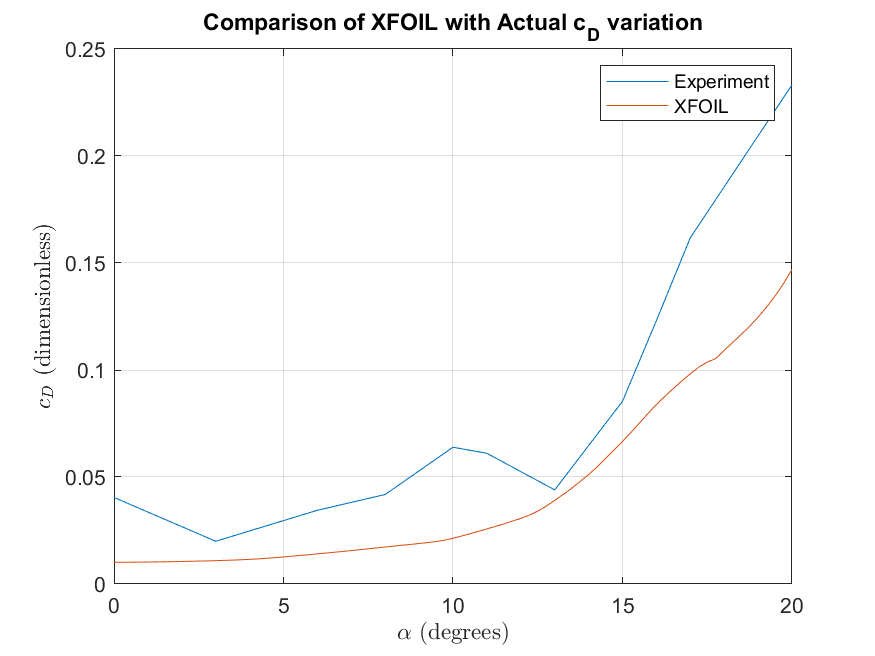
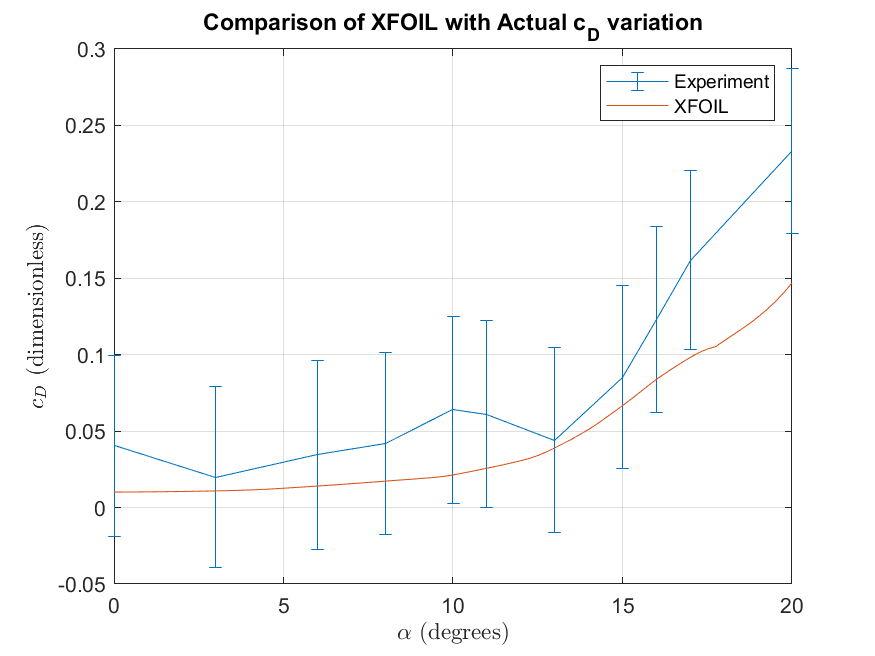
Error analysis for manometer, manometer wake velocity, drag
Typed up error calculations in appendix

diff --git a/Code/wake_analysis/wake_analysis_manometer.m b/Code/wake_analysis/wake_analysis_manometer.m
@@ -3,9 +3,15 @@ load("../../Data/calibrated_manometer_data_Pa.mat");
 XFOIL_data = readmatrix("../../XFOIL Analysis/clark_y_coefficients", "numheaderlines", 12);
 alphas = [0 3 6 8 10 11 13 15 16 17 20];
 c_D = zeros(size(alphas));
-v_inf = zeros(size(alphas));
+d_c_D = zeros(size(alphas));
 drag_force = zeros(size(alphas));
+d_drag_force = zeros(size(alphas));
 chord = 0.1; % m
+
+% Read freestream velocities from data folder
+freestream = readmatrix("../../Data/velocities_manometer.csv");
+d_freestream = freestream(2, :);
+freestream = freestream(1, :);
 
 figure
 hold on
@@ -24,23 +30,34 @@ for i = 1:11
     combined_locations = combined_locations(:) / 100; % locations in m
     combined_rakes = [rake_b_manometer(i,:); rake_a_manometer(i,:)];
     combined_rakes = combined_rakes(:);
+    d_combined_rakes = [d_rake_b_manometer(i,:); d_rake_a_manometer(i,:)];
+    d_combined_rakes = d_combined_rakes(:);
     velocities = sqrt(2 * combined_rakes / RHO);
+    d_velocities = d_combined_rakes ./ (2 * velocities * RHO);
     
-    V_inf = 1/2 * (sqrt(2 * combined_rakes(1) / RHO) + sqrt(2 * combined_rakes(end) / RHO));
-    v_inf(i) = V_inf;
+    vel_diff_err = sqrt(d_freestream(i)^2 + d_velocities.^2);
 
-    plot(V_inf- velocities, combined_locations, "DisplayName", sprintf("%d", alpha));
-
-    drag_force(i) = RHO * trapz(combined_locations,  velocities .* (V_inf - velocities));
-    c_D(i) = drag_force(i) / (1/2 * RHO * V_inf^2 * chord);
-    %fprintf("D = %f N, CD = %f for AoA = %d\n", drag_force, c_D(i), alpha);
+    errorbar(freestream(i)- velocities, combined_locations, vel_diff_err, "horizontal", "DisplayName", sprintf("%d", alpha));
+    
+    drag_force(i) = RHO * trapz(combined_locations,  velocities .* (freestream(i) - velocities));
+    
+    % Calculate drag error
+    dDdu = RHO * trapz(combined_locations, freestream(i) - 2*velocities);
+    dDdU = RHO * trapz(combined_locations, velocities);
+    d_drag_force(i) = sqrt((dDdu * max(d_velocities))^2 + (dDdU * d_freestream(i))^2);
+    
+    q = 1/2 * RHO * freestream(i).^2;
+    d_q = d_freestream(i) * RHO * freestream(i);
+    
+    c_D(i) = drag_force(i) / (q * chord);
+    d_c_D = sqrt((d_drag_force / (q * chord)).^2 + (c_D(i) / q * d_q).^2);
 end
 legend
 grid
 saveas(gcf,'manometer_wake_velocities.png')
 
 figure
-plot(alphas, c_D, "DisplayName", "Experiment")
+errorbar(alphas, c_D, d_c_D, "DisplayName", "Experiment")
 hold on
 plot(XFOIL_data(:, 1), XFOIL_data(:,3), "DisplayName", "XFOIL")
 xlabel("$\alpha$ (degrees)", "interpreter", "latex")
@@ -51,7 +68,7 @@ grid
 saveas(gcf,'manometer_cd.png')
 
 figure
-plot(alphas, drag_force)
+errorbar(alphas, drag_force, d_drag_force)
 xlabel("$\alpha$ (degrees)", "interpreter", "latex")
 ylabel("Drag Force (N)")
 title("Drag Force")

diff --git a/source_latex/main.tex b/source_latex/main.tex
@@ -20,6 +20,7 @@
 \usepackage{minted}
 \usepackage{hyperref}
 \usepackage{siunitx}
+\usepackage{esdiff}
 \usepackage[inline]{enumitem} % Horizontal lists
 % Used for displaying a sample figure. If possible, figure files should
 % be included in EPS format.
@@ -324,5 +325,60 @@ NOTE: These tables are not final; just here to test.
     \caption{Caption}
     \label{tab:pressure_rake2}
 \end{table}
+
+\subsection{Manometer Measurements}
+
+\appendix
+\section{Uncertainty Propagation}
+\subsection{Manometer Pressure}
+Reference height $h_R = 18.2 \ \si{cm}$ (assumed errorless) on manometer used for baseline. $\theta = 61 \pm 0.1^\circ$
+\begin{align*}
+    P_{mano} &= -\rho g (h - h_R) \sin\theta\\
+    \delta P_{mano} &= \sqrt{\left(-\rho g \sin \theta \delta h\right)^2 + \left(-\rho g  (h-h_R)\cos\theta \delta \theta\right)^2}\\
+    \delta P_{mano} &= \sqrt{\left(-\rho g \sin \theta \delta h\right)^2 + \left(\frac{P_{mano}}{\tan \theta}\right)^2}
+\end{align*}
+
+\subsection{Flow Velocity}
+For cases where we want the velocity of airfoil at a single pitot tube.
+\begin{align*}
+    U_\infty &=  \sqrt{\frac{2 P}{\rho}} \\
+    \delta U_\infty &= \frac{P}{U_\infty \rho}
+\end{align*}
+
+\subsection{Free Stream Velocity}
+An average free stream velocity was obtained using ports 20 and 36. Assume zero error in $\rho$.
+\begin{align*}
+    U_\infty &= \frac{1}{2} \left(\sqrt{\frac{2 P_{20}}{\rho}} + \sqrt{\frac{2 P_{36}}{\rho}} \right) \\
+    \delta U_\infty &= \sqrt{\left(\frac{1}{2U_\infty \rho}  P_{20}\right)^2 + \left(\frac{1}{2U_\infty \rho } P_{36}\right)^2}
+\end{align*}
+
+\subsection{Velocity Deficit}
+This is used to create the wake velocity distribution.
+\begin{align*}
+    \Delta V &= U_\infty - u\\
+    \delta \Delta V &= \sqrt{\delta U_\infty^2 + \delta u^2}
+\end{align*}
+
+\subsection{Drag Force}
+This was evaluated numerically using trapezoidal rule, ignoring the errors associated with it.
+\begin{align*}
+    D &= \rho\int u (U_\infty - u) dS\\
+    \diffp{D}{{U_\infty}} &= \rho \int  u dS\\
+    \diffp{D}{u} &= \rho \int (U_\infty - 2u) dS\\
+    \delta D &= \sqrt{\left(\rho \int  u dS \ \delta U_\infty \right)^2 + \left(\rho \int (U_\infty - 2u) dS \ \delta u \right)^2}
+\end{align*}
+
+\subsection{Dynamic Pressure}
+\begin{align*}
+    q &= \frac{1}{2} \rho u^2\\
+    \delta q &= \rho u
+\end{align*}
+
+\subsection{Drag Coefficient}
+Assume the chord length to be known perfectly.
+\begin{align*}
+    c_D &= \frac{D}{q_\infty c}\\
+    \delta c_D &= \sqrt{\left(\frac{\delta D}{q_\infty c}\right)^2 + \left( \frac{\delta q c_D}{q} \right)^2}
+\end{align*}
 
 \end{document}

diff --git a/Code/manometer_conversion.m b/Code/manometer_conversion.m
@@ -3,14 +3,20 @@ alphas = [0 3 6 8 10 11 13 15 16 17 20];
 theta = 61 * pi/180; % degrees
 d_theta = 0.1; % degrees uncertainty
 
+d_cm = 0.1; % cm uncertainty on manometer
+
 cmH20_to_Pa = 98.0665; % Pa / (cmH20)
 
-REF_HEIGHT = 18.2; % cm, initial guess 15.6
+REF_HEIGHT = 18.2; % cm, initial guess 15.6, tuned manually to get c_p
 
+% Arrays for exporting
 airfoil_export = zeros(11, 20);
 airfoil_manometer = zeros(11, 19);
+d_airfoil_manometer = zeros(11, 19);
 rake_a_manometer = zeros(11, 17);
+d_rake_a_manometer = zeros(11, 17);
 rake_b_manometer = zeros(11, 17);
+d_rake_b_manometer = zeros(11, 17);
 
 for i = 1:11
     alpha = alphas(i);
@@ -21,11 +27,19 @@ for i = 1:11
     p_airfoil = -(manometer_heights_a(1:19, 2)'- REF_HEIGHT) * sin(theta) * cmH20_to_Pa;
     airfoil_export(i, 2:end) = p_airfoil;
     airfoil_manometer(i,:) = p_airfoil;
+    d_airfoil_manometer(i, :) = sqrt((-cmH20_to_Pa * sin(theta) * d_cm).^2 + (p_airfoil / tan(theta) * d_theta).^2);
+    
     p_rake_1 = -(manometer_heights_a(20:end, 2)' - REF_HEIGHT) * sin(theta) * cmH20_to_Pa;
     rake_a_manometer(i, :) = p_rake_1;
+    d_rake_a_manometer(i, :) = sqrt((-cmH20_to_Pa * sin(theta) * d_cm).^2 + (p_rake_1 / tan(theta) * d_theta).^2);
+    
     p_rake_2 = - (manometer_heights_b(20:end, 2)' - REF_HEIGHT) * sin(theta) * cmH20_to_Pa;
     rake_b_manometer(i, :) = p_rake_2;
+    d_rake_b_manometer(i, :) = sqrt((-cmH20_to_Pa * sin(theta) * d_cm).^2 + (p_rake_2 / tan(theta) * d_theta).^2);
+    
 end
 writematrix(airfoil_export, "../Data/calibrated_manometer_airfoil.csv");
-save("../Data/calibrated_manometer_data_Pa.mat", "airfoil_manometer", "rake_a_manometer", "rake_b_manometer");
+save("../Data/calibrated_manometer_data_Pa.mat", ...
+    "airfoil_manometer", "rake_a_manometer", "rake_b_manometer", ...
+    "d_airfoil_manometer", "d_rake_a_manometer", "d_rake_b_manometer");
 
